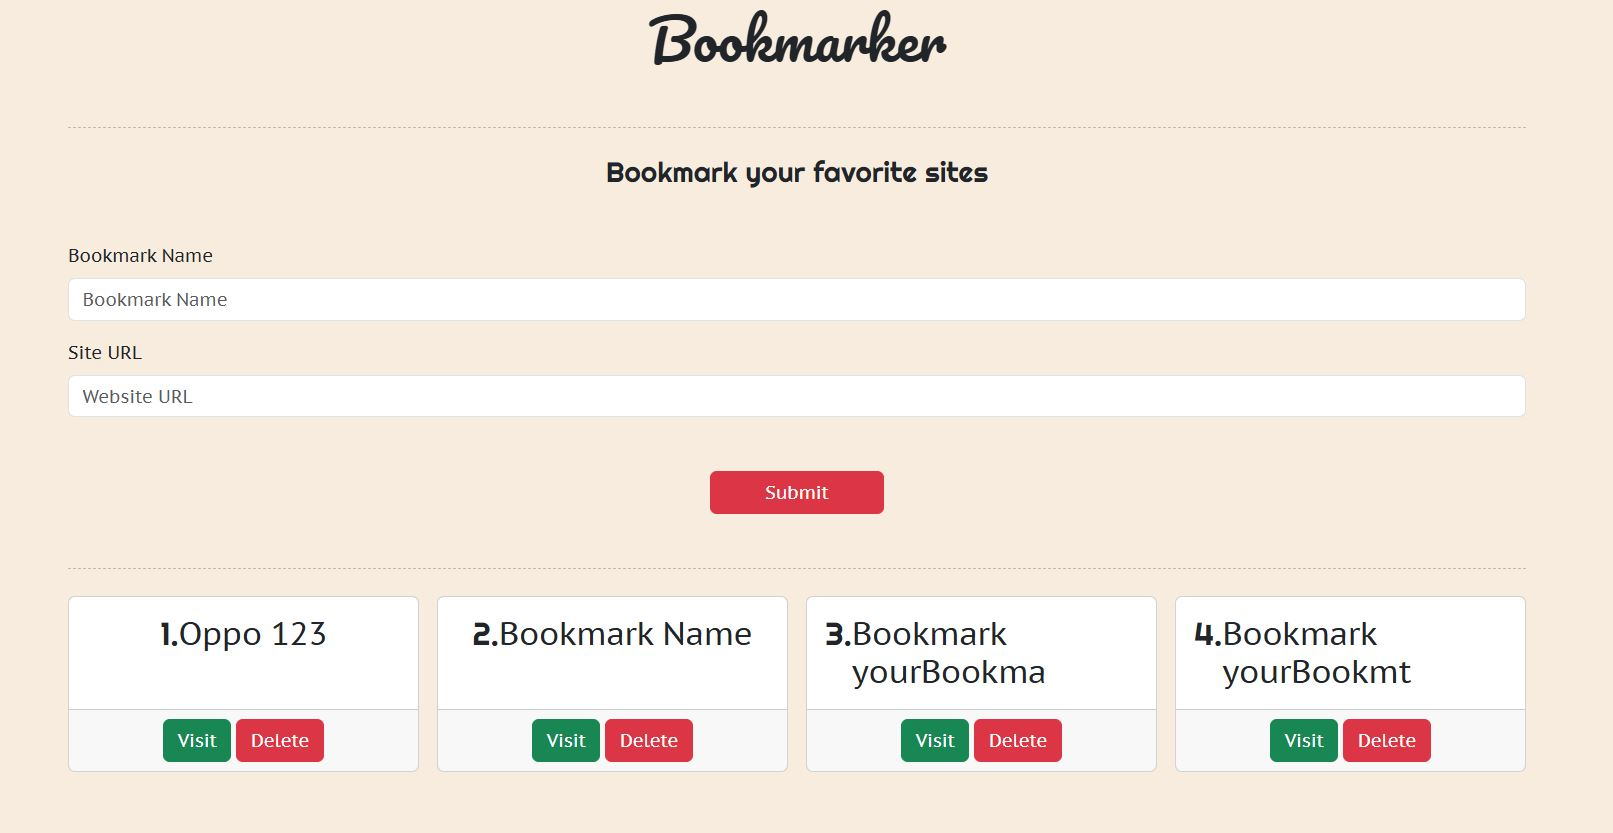
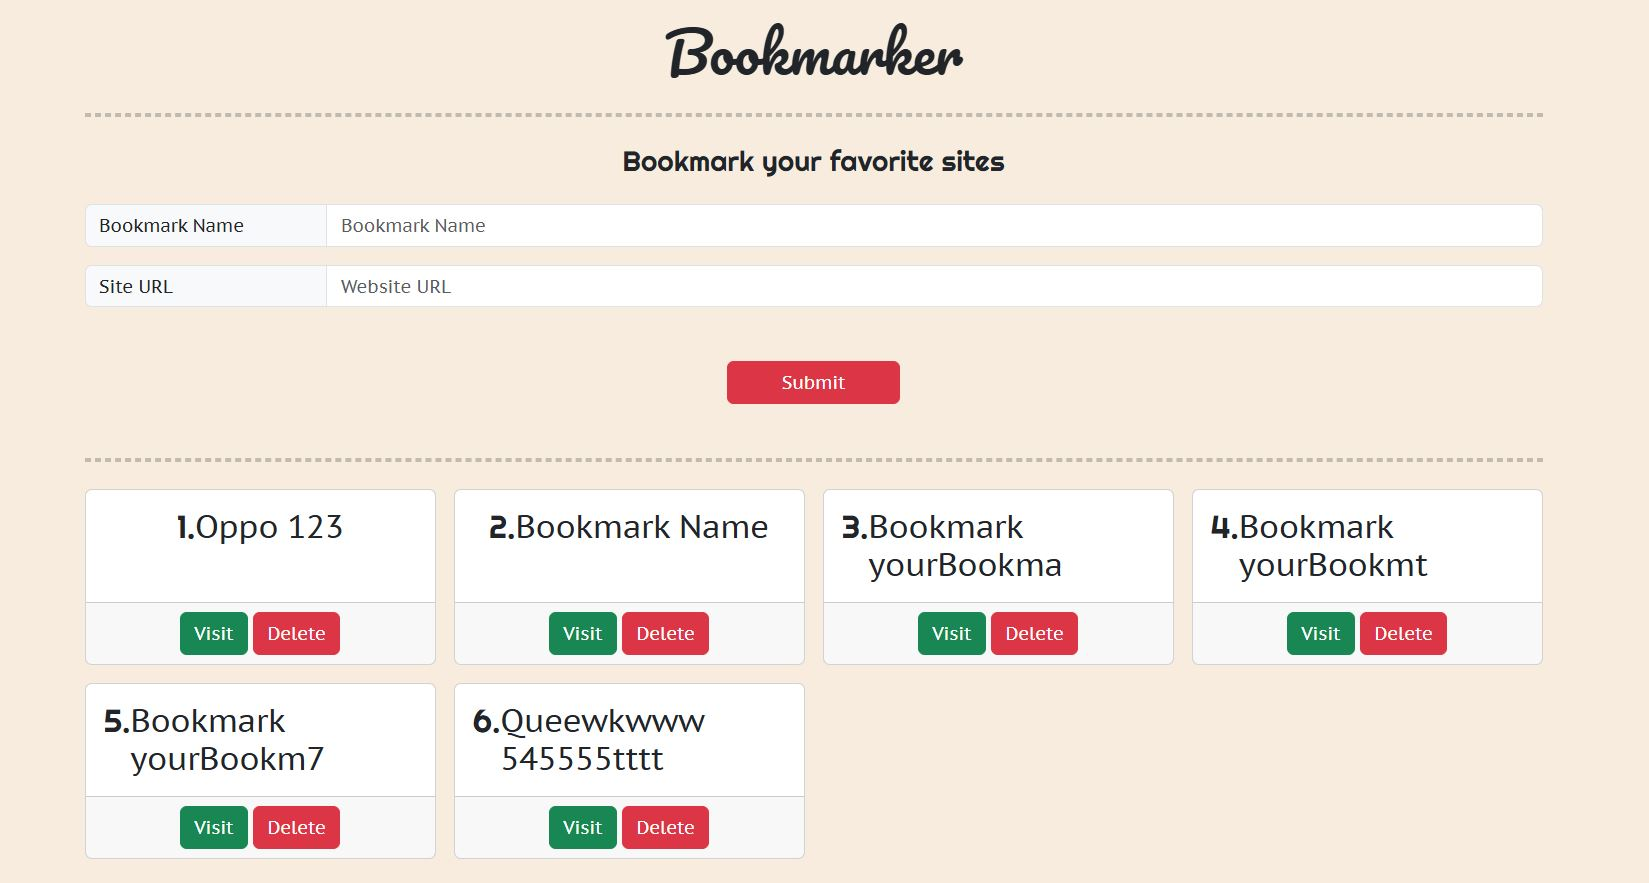
edit disgn

diff --git a/index.html b/index.html
@@ -11,55 +11,57 @@
 
 <body>
     <div class="hero">
-        <div class="container  mb-5">
-            <h1 class="mt-3 text-center">
-                Bookmarker
-            </h1>
-            <hr class="mt-5 mb-4">
-            <h2 class=" text-center">
-                Bookmark your favorite sites
-            </h2>
+<div class="container  mb-5">
+    <h1 class="mt-3 text-center">
+        Bookmarker
+    </h1>
+    <hr class="my-4">
+    <h2 class=" text-center">
+        Bookmark your favorite sites
+    </h2>
 
-            <div class="my-5">
-                <div class="mb-3">
-                    <label for="bookmarkName" class="form-label">Bookmark Name</label>
-                    <input type="text" oninput="validateForm(this)" class="form-control" id="bookmarkName"
-                        placeholder="Bookmark Name">
-                    <p class="alert alert-danger d-none">
-                        The Bookmark name must start with a capital letter and consist of at most two syllables.
-                    </p>
-                </div>
-                <div class="mb-3">
-                    <label for="siteUrl" class="form-label">Site URL</label>
-                    <input type="text" oninput="validateUrl(this)" class="form-control" id="siteUrl"
-                        placeholder="Website URL">
-                    <p class="alert alert-danger d-none">
-                        The website link must be valid.
-                        <span class="text-muted">Example https://google.com</span>
-                    </p>
-                </div>
-                <div class="my-5 text-center">
-                    <button type="button" class="btn btn-danger px-5" onclick="addNewBookmark()">Submit</button>
-                </div>
+    <div class="my-4">
+        <div class="mb-3">
+            <div class="input-group">
+                <span class="col-md-2 input-group-text" id="basic-addon3">Bookmark Name</span>
+                <input type="text" oninput="validateForm(this)" class="form-control" id="bookmarkName"
+                    aria-describedby="basic-addon3" placeholder="Bookmark Name">
             </div>
-
-            <hr class=" mb-4">
-            <!-- <table class="table table-bordered">
-
-                <head>
-                    <th>Index</th>
-                    <th>Website Name</th>
-                    <th>Visit</th>
-                    <th>Delete</th>
-                </head>
-                <tbody id="data-rows">
-                </tbody>
-            </table> -->
-
-            <div class="row g-3" id="data-rows">
+            <div class="d-none form-text my-2">
+                <p class="alert alert-danger m-0 py-2">
+                    The Bookmark name must start with a capital letter and consist of at most two syllables, Max Length
+                    22
+                </p>
             </div>
-
         </div>
+        <div class="mb-3">
+            <div class="input-group">
+                <span class="col-md-2 input-group-text" id="basic-url">Site URL </span>
+                <input type="text" oninput="validateUrl(this)" class="form-control" id="siteUrl"
+                    aria-describedby="basic-url" placeholder="Website URL">
+            </div>
+            <div class="d-none form-text my-2">
+                <p class="alert alert-danger m-0 py-2">
+                    The website link must be valid.
+                    <span class="text-muted">Example https://google.com</span>
+                </p>
+            </div>
+        </div>
+
+        <div class="my-5 text-center">
+            <button type="button" class="btn btn-danger px-5" onclick="addNewBookmark()">Submit</button>
+        </div>
+    </div>
+
+    <hr class=" mb-4">
+
+
+    <div class="row g-3" id="data-rows">
+
+
+    </div>
+
+</div>
     </div>
     <script src="./main.js"></script>
 </body>

diff --git a/main.js b/main.js
@@ -5,26 +5,26 @@ var bookmarkList = JSON.parse(localStorage.getItem("bookmarks")) || [];
 displayBookmarks(bookmarkList);
 
 function addNewBookmark() {
-    var isValidUrl = validateUrl(siteUrl);
-    var isValidName = validateForm(bookmarkName);
-    if (isValidUrl && isValidName) {
-        var isExist = false;
-        for (let i = 0; i < bookmarkList.length; i++) {
-            if (bookmarkList[i].Name == bookmarkName.value) {
-                isExist = true;
-            }
-        }
-        if (isExist === false) {
-            var bookmark = {
-                Name: bookmarkName.value,
-                Url: siteUrl.value,
-            };
-            bookmarkList.push(bookmark);
-            localStorage.setItem("bookmarks", JSON.stringify(bookmarkList));
-            displayBookmarks(bookmarkList);
-            claerForm();
-        }
+  var isValidUrl = validateUrl(siteUrl);
+  var isValidName = validateForm(bookmarkName);
+  if (isValidUrl && isValidName) {
+    var isExist = false;
+    for (let i = 0; i < bookmarkList.length; i++) {
+      if (bookmarkList[i].Name == bookmarkName.value) {
+        isExist = true;
+      }
     }
+    if (isExist === false) {
+      var bookmark = {
+        Name: bookmarkName.value,
+        Url: siteUrl.value,
+      };
+      bookmarkList.push(bookmark);
+      localStorage.setItem("bookmarks", JSON.stringify(bookmarkList));
+      displayBookmarks(bookmarkList);
+      claerForm();
+    }
+  }
 }
 
 function claerForm() {
@@ -41,21 +41,7 @@ function displayBookmarks(bookmarkList) {
   var data = "";
   for (let i = 0; i < bookmarkList.length; i++) {
     const element = bookmarkList[i];
-    // data += `
-    //             <tr>
-    //                 <td>${i + 1}</td>
-    //                 <td>${element.Name}</td>
-    //                 <td>
-    //                     <a href="${
-    //                       element.Url
-    //                     }" target="_blank" class="btn btn-success">Visit</a>
-    //                 </td>
-    //                 <td>
-    //                     <button type="button" class="btn btn-danger" onclick="deleteBookmark(${i})">Delete</button>
-    //                 </td>
-    //             </tr>       
-    //     `;
-    
+
     data += `
                     <div class="col-lg-3 col-md-4 col-sm-6">
                     <div class="card align-items-center">
@@ -78,31 +64,31 @@ function displayBookmarks(bookmarkList) {
 }
 
 function validateForm(src) {
-  var regex = /^[A-Z]\w{2,10}[\s-]?\w{0,10}$/;
+  var regex = /^[A-Z]\w{2,10}[\s-]\w{0,10}$/;
   if (regex.test(src.value)) {
     src.classList.remove("is-invalid");
     src.classList.add("is-valid");
-    src.nextElementSibling.classList.add("d-none");
+    src.parentElement.nextElementSibling.classList.add("d-none");
     return true;
   } else {
     src.classList.add("is-invalid");
     src.classList.remove("is-valid");
-    src.nextElementSibling.classList.remove("d-none");
+    src.parentElement.nextElementSibling.classList.remove("d-none");
     return false;
   }
 }
 
 function validateUrl(src) {
-  var regex = /^http[s]?:\/\/\w{1,20}.\w{2,20}$/;
+  var regex = /^http[s]?:\/\/\w{1,20}.\w{1,20}$/;
   if (regex.test(src.value)) {
     src.classList.remove("is-invalid");
     src.classList.add("is-valid");
-    src.nextElementSibling.classList.add("d-none");
+    src.parentElement.nextElementSibling.classList.add("d-none");
     return true;
   } else {
     src.classList.add("is-invalid");
     src.classList.remove("is-valid");
-    src.nextElementSibling.classList.remove("d-none");
+    src.parentElement.nextElementSibling.classList.remove("d-none");
     return false;
   }
 }

diff --git a/assets/css/style.css b/assets/css/style.css
@@ -25,7 +25,9 @@ h2{
 
 hr{
     border-style: dashed !important;
+    border-width: 2px;
 }
+
 
 .card-body.d-flex {
     height: 100px;
